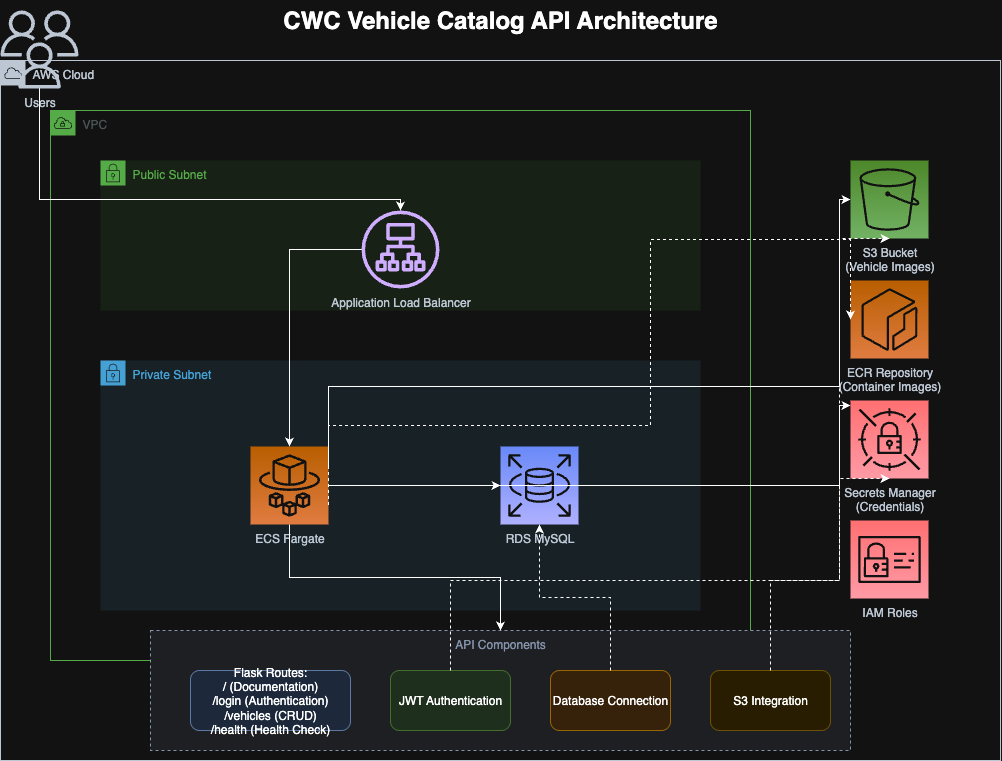
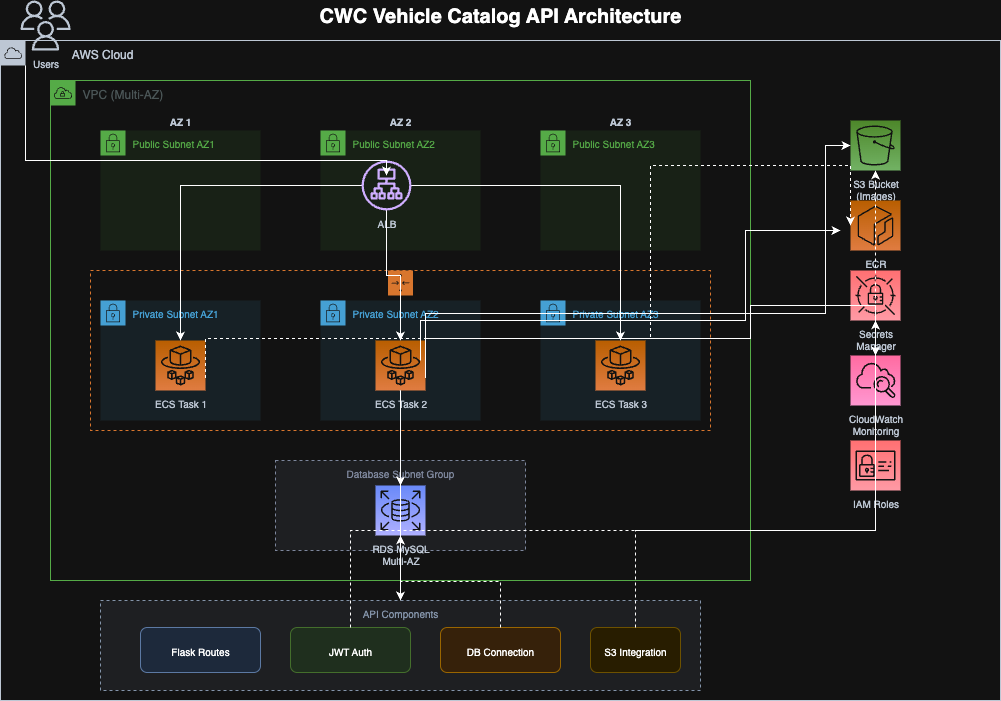
updated readme, diagram

diff --git a/README.md b/README.md
@@ -6,6 +6,14 @@ A secure REST API for querying vehicle catalog data with JWT authentication and 
 
 ![CWC API Architecture](docs/images/cwc-api-architecture.png)
 
+Our architecture is designed with enterprise-grade reliability and performance in mind:
+
+- **Fault-Tolerant Multi-AZ Deployment** - Services distributed across three Availability Zones ensuring continuous operation even if an entire zone fails
+- **Dynamic Auto-scaling** - ECS Fargate containers automatically adjust capacity based on traffic patterns and demand
+- **Managed Relational Database** - RDS MySQL with Multi-AZ replication for data durability and high availability
+- **Resilient Object Storage** - S3 for vehicle images with 99.999999999% durability and cross-region replication capability
+- **Enterprise Monitoring Solution** - CloudWatch dashboards with real-time metrics, custom alarms, and automated notifications
+
 ### Development
 - **VPC** with public subnets
 - **RDS MySQL** (publicly accessible for direct connection)
@@ -13,11 +21,11 @@ A secure REST API for querying vehicle catalog data with JWT authentication and 
 - **Direct database** access for development
 
 ### Production
-- **VPC** with public/private subnets
-- **Application Load Balancer** (public)
-- **ECS Fargate** (private subnets)
-- **RDS MySQL** (private subnets)
-- **Bastion Host** for database access
+- **VPC** with public/private subnets across 3 Availability Zones
+- **Application Load Balancer** (public) for traffic distribution
+- **ECS Fargate** (private subnets) with tasks distributed across AZs
+- **RDS MySQL** (private subnets) with multi-AZ option
+- **Bastion Host** for secure database access
 - **ECR** for container images
 - **S3** for vehicle images
 
@@ -89,7 +97,13 @@ curl http://localhost/health
 
 ### GitHub Actions
 
-Production deployment is automated via GitHub Actions on push to `main` branch.
+Production deployment is automated via GitHub Actions workflow defined in `.github/workflows/deploy.yml`. The workflow is triggered automatically on every push to the `main` branch, ensuring continuous deployment of the latest changes.
+
+The deployment process includes:
+1. Infrastructure provisioning with Terraform
+2. Docker image building and pushing to ECR
+3. ECS service update with the new container image
+4. Database migration (only runs if needed)
 
 **Required Secrets:**
 - `AWS_ACCESS_KEY_ID`
@@ -98,6 +112,8 @@ Production deployment is automated via GitHub Actions on push to `main` branch.
 
 **Required Variables:**
 - `DEPLOY_ENVIRONMENT` (set to "prod")
+
+The workflow can also be manually triggered using GitHub's workflow_dispatch feature, allowing you to select specific jobs to run (infrastructure, docker, or migration).
 
 ### Manual Production Deploy
 
